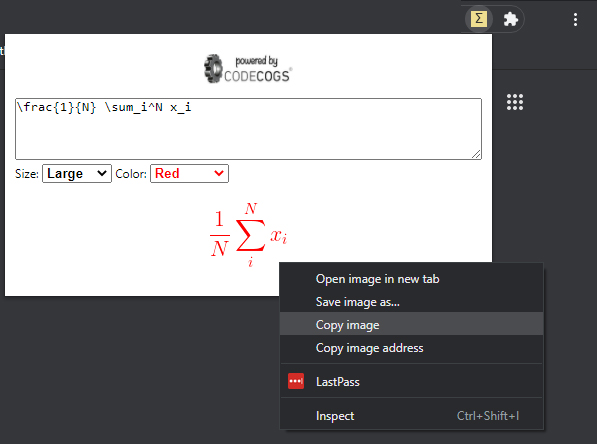
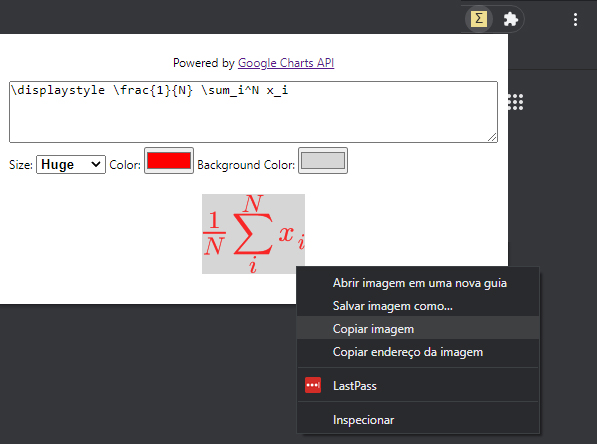
Update extension

diff --git a/latex-equation-generator/script.js b/latex-equation-generator/script.js
@@ -1,4 +1,4 @@
-const codecogs_url = "https://codecogs.com/gif.latex?";
+const google_charts_url = "https://chart.googleapis.com/chart?";
 
 // ! Prototypes
 String.prototype.capitalize = function () {
@@ -16,32 +16,15 @@ sizeList.forEach((element) => {
   latexSize.append(option);
 });
 
-// * LaTeX Color
+// * LaTeX Color and BG
 let latexColor = document.getElementById("latexColor");
-const colorList = [
-  "black",
-  "gray",
-  "red",
-  "green",
-  "blue",
-  "cyan",
-  "magenta",
-  "orange",
-  "purple",
-];
-colorList.forEach((element) => {
-  let option = document.createElement("option");
-  option.value = element;
-  option.innerText = element.capitalize();
-  option.style = `color: ${element};`;
-  latexColor.append(option);
-});
+let latexBG = document.getElementById("latexBG");
 
 // ! Main program
 let latexInput = document.getElementById("latexInput");
 let latexOutput = document.getElementById("latexOutput");
 
-let textValue, sizeValue, colorValue;
+let textValue, sizeValue, colorValue, bgValue;
 
 document.addEventListener("DOMContentLoaded", function () {
   loadLastInputValue();
@@ -62,7 +45,12 @@ latexSize.oninput = function () {
 
 latexColor.oninput = function () {
   colorValue = latexColor.value;
-  latexColor.style = `color: ${colorValue};`;
+  storeLastInputValue();
+  setOutputImage();
+};
+
+latexBG.oninput = function () {
+  bgValue = latexBG.value;
   storeLastInputValue();
   setOutputImage();
 };
@@ -71,15 +59,18 @@ latexColor.oninput = function () {
 function loadLastInputValue() {
   // ? Load last input value
   chrome.storage.local.get(
-    ["ccLastTextValue", "ccLastSizeValue", "ccLastColorValue"],
+    ["ccLastTextValue", "ccLastSizeValue", "ccLastColorValue", "ccLastBGValue"],
     function (value) {
       textValue = latexInput.value =
-        value.ccLastTextValue || String.raw`\frac{1}{N} \sum_i^N x_i`;
+        value.ccLastTextValue ||
+        String.raw`\displaystyle \frac{1}{N} \sum_i^N x_i`;
       sizeValue = latexSize.value = value.ccLastSizeValue || "normal";
-      colorValue = latexColor.value = value.ccLastColorValue || "black";
+      colorValue = latexColor.value = value.ccLastColorValue || "#000000";
+      bgValue = latexBG.value = value.ccLastBGValue || "#FFFFFF";
       latexInput.dispatchEvent(new Event("input"));
       latexSize.dispatchEvent(new Event("input"));
       latexColor.dispatchEvent(new Event("input"));
+      latexBG.dispatchEvent(new Event("input"));
     }
   );
 }
@@ -91,6 +82,7 @@ function storeLastInputValue() {
       ccLastTextValue: textValue,
       ccLastSizeValue: sizeValue,
       ccLastColorValue: colorValue,
+      ccLastBGValue: bgValue,
     },
     function () {}
   );
@@ -98,9 +90,9 @@ function storeLastInputValue() {
 
 function setOutputImage() {
   // ? Set output image
-  console.log("ok1", sizeValue, colorValue);
-  let output = `\\${sizeValue} `;
-  output += `\\color{${colorValue.capitalize()}} `;
-  output += textValue;
-  latexOutput.src = `${codecogs_url}${output}`;
+  let output = "cht=tx";
+  output += `&chf=bg,s,${bgValue.replace("#", "")}`;
+  output += `&chco=${colorValue.replace("#", "")}`;
+  output += `&chl=\\${sizeValue} ${textValue}`;
+  latexOutput.src = `${google_charts_url}${output}`;
 }

diff --git a/latex-equation-generator/index.html b/latex-equation-generator/index.html
@@ -12,14 +12,13 @@
   </head>
   <body>
     <div class="wrapper">
-      <div class="codecogs-brand">
-        <a href="https://www.codecogs.com" target="_blank">
-          <img
-            src="https://www.codecogs.com/images/poweredbycodecogs.png"
-            border="0"
-            title="CodeCogs"
-            alt="CodeCogs"
-          />
+      <div class="api-brand">
+        Powered by
+        <a
+          href="https://developers.google.com/chart/infographics/docs/formulas?hl=en"
+          target="_blank"
+        >
+          Google Charts API
         </a>
       </div>
 
@@ -31,13 +30,16 @@
         <select name="latexSize" id="latexSize"></select>
         <!-- * Color options -->
         <label for="latexColor">Color: </label>
-        <select name="latexColor" id="latexColor"></select>
+        <input type="color" name="latexColor" id="latexColor" value="#000000" />
+        <!-- * Color options -->
+        <label for="latexBG">Background Color: </label>
+        <input type="color" name="latexBG" id="latexBG" value="#FFFFFF" />
       </div>
 
       <div class="output">
         <img
           id="latexOutput"
-          src="http://codecogs.unisa.ac.za/gif.latex?"
+          src="https://chart.googleapis.com/chart?"
           align="middle"
         />
       </div>

diff --git a/latex-equation-generator/background.js b/latex-equation-generator/background.js
@@ -1,5 +1,5 @@
 "use strict";
 
 chrome.runtime.onInstalled.addListener(function () {
-  console.log("LaTeX equation, powered by CodeCogs.");
+  console.log("LaTeX Equation Generator, powered by Google Charts API.");
 });

diff --git a/latex-equation-generator/style.css b/latex-equation-generator/style.css
@@ -16,15 +16,10 @@ body {
   padding: 10px;
 }
 
-.codecogs-brand {
+.api-brand {
   text-align: center;
   display: block;
   margin: 10px;
-}
-
-.codecogs-brand img {
-  width: 20%;
-  height: auto;
 }
 
 .input select,
